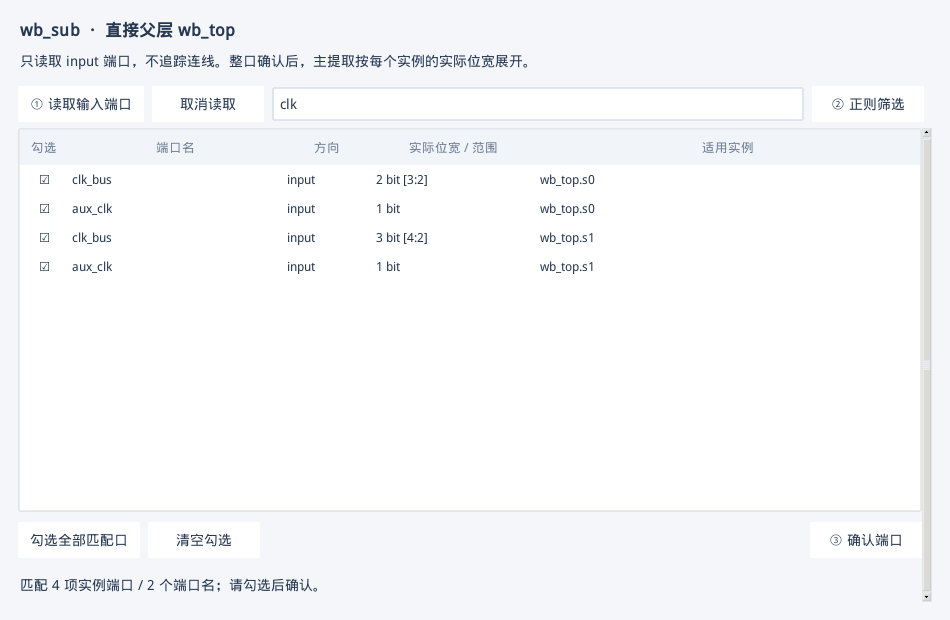
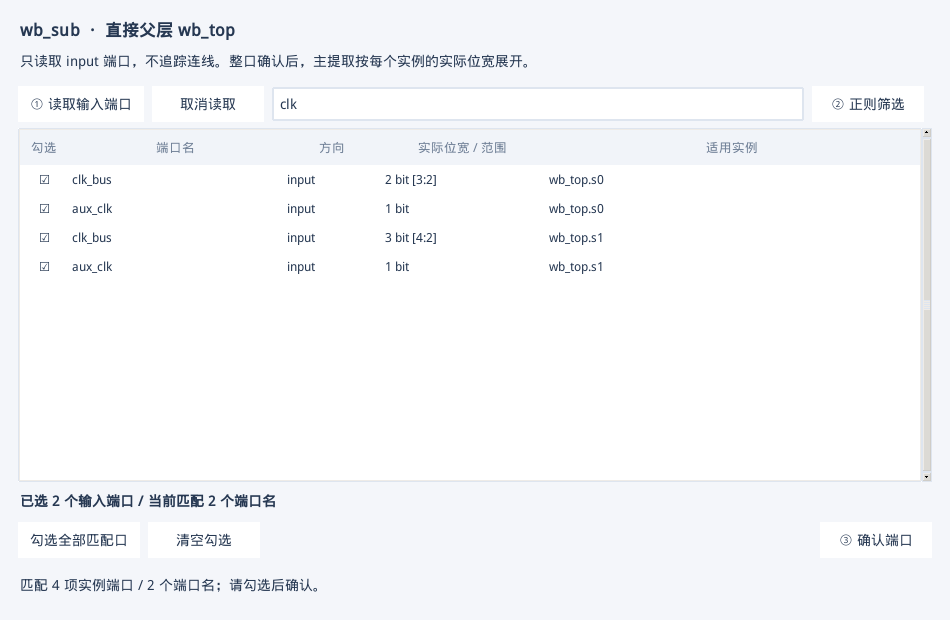
Show live subsystem input selection count
Keep selected and matching input-name counts visible while checking, filtering, and re-reading elab. Count only names submitted by confirmation and reserve footer space at minimum window size.

Validated 34 native Tk states across clock/reset with real Verdi 2018 discovery on the VM; 34 related automated tests passed. Updated manual, screenshot, and acceptance summary.

diff --git a/docs/GUI_USER_MANUAL.zh-CN.html b/docs/GUI_USER_MANUAL.zh-CN.html
@@ -1720,12 +1720,13 @@ bash clocktree.sh gui
 <li>添加器件，类型选择 <code>SUBSYSTEM</code>，填写 <strong>module 定义名</strong>，例如 <code>uart_subsystem</code>。</li>
 <li>点击“读取 elab 输入端口 → 正则筛选 → 勾选确认”，打开前处理窗口。</li>
 <li>点击“① 读取输入端口”。工具启动独立 Verdi 进程，导入设计，在指定父层匹配实例，只读取 formal input 的名称、方向、实际位宽及适用实例。此阶段没有 driver/load 追踪。</li>
-<li>输入正则，点击“② 正则筛选”。在表格第一列勾选需要的端口，可用“勾选全部匹配口”或“清空勾选”。</li>
+<li>输入正则，点击“② 正则筛选”。在表格第一列勾选需要的端口，可用“勾选全部匹配口”或“清空勾选”。表格下方实时显示“已选 N 个输入端口 / 当前匹配 M 个端口名”；单项勾选、取消勾选、全选、清空和重新筛选都会立即更新。</li>
 <li>点击“③ 确认端口”返回编辑窗口；关注输入框显示已确认名单，输出框禁用。</li>
 <li>点击“保存规则”。完成其他器件后，再点击左下角“开始提取全部时钟树”或复位树按钮。</li>
 </ol>
 <p><a class="figure" href="images/subsystem-input-preview.png" target="_blank"><img alt="真实 Verdi 2018 的参数化输入端口预览" src="images/subsystem-input-preview.png" /></a></p>
 <p>同一 module 有多个实例时，表格逐实例显示。例如 <code>s0.clk_bus</code> 是 <code>[3:2]</code>、<code>s1.clk_bus</code> 是 <code>[4:2]</code>，会显示两行。勾选按端口名作用于匹配的全部实例；主提取再逐实例核对是否存在及其位宽。当前配置不支持同一规则下按实例分别勾选不同的端口名单；这种需求应拆成不同父层规则。</p>
+<p>选中数量与“确认端口”实际提交的名单一致：相同端口名跨实例只计一次，整条总线计一个端口，筛选范围外的历史勾选不计入当前数量。修改正则但尚未重新筛选时，计数会标记“上次匹配”和“待重新筛选”；再次读取 elab 时先清零，读取完成后按新结果更新。计数和确认按钮固定在表格下方，缩小窗口时仍可见。</p>
 <p>“取消读取”终止本次独立读取进程，保留已保存规则；关闭前处理窗口也会停止尚未结束的读取。读取失败的具体原因显示在窗口底部，日志位于运行目录下 <code>.input-discovery/&lt;任务编号&gt;/preprocess.log</code>。前处理没有人为设置的总时限。</p>
 <h3 id="306">30.6 正则、确认状态与总线</h3>
 <p>正则使用 Python <code>re.search</code>，默认区分大小写，对 <strong>elab formal 端口名</strong>匹配，不搜索 RTL 源码中的信号声明。</p>

diff --git a/clocktree/input_view.py b/clocktree/input_view.py
@@ -29,20 +29,26 @@ class InputPortDialog(tk.Toplevel):
         self.expression=tk.StringVar(value=expression or '.*')
         ttk.Entry(actions,textvariable=self.expression,width=28).pack(side='left',fill='x',expand=True)
         ttk.Button(actions,text='② 正则筛选',command=self.filter).pack(side='left',padx=8)
-        self.table=ttk.Treeview(frame,columns=('name','direction','range','instance'),show='tree headings',selectmode='extended')
+        # Reserve the counter and confirmation controls before giving the
+        # remaining height to the scrollable table, including at minimum size.
+        footer=ttk.Frame(frame);footer.pack(side='bottom',fill='x')
+        table_frame=ttk.Frame(frame);table_frame.pack(fill='both',expand=True)
+        self.table=ttk.Treeview(table_frame,columns=('name','direction','range','instance'),show='tree headings',selectmode='extended')
         self.table.heading('#0',text='勾选');self.table.column('#0',width=48,stretch=False)
         for key,label,width in [('name','端口名',190),('direction','方向',65),('range','实际位宽 / 范围',140),('instance','适用实例',360)]:
             self.table.heading(key,text=label);self.table.column(key,width=width,minwidth=50)
-        scroll=ttk.Scrollbar(frame,orient='vertical',command=self.table.yview)
+        scroll=ttk.Scrollbar(table_frame,orient='vertical',command=self.table.yview)
         self.table.configure(yscrollcommand=scroll.set)
         scroll.pack(side='right',fill='y');self.table.pack(fill='both',expand=True)
         self.table.bind('<ButtonRelease-1>',self.click)
-        row=ttk.Frame(frame);row.pack(fill='x',pady=10)
+        self.selection_summary=tk.StringVar(value='已选 0 个输入端口 / 当前匹配 0 个端口名')
+        ttk.Label(footer,textvariable=self.selection_summary,font=(parent.app.family,10,'bold')).pack(anchor='w',pady=(8,0))
+        row=ttk.Frame(footer);row.pack(fill='x',pady=10)
         ttk.Button(row,text='勾选全部匹配口',command=lambda:self.toggle_all(True)).pack(side='left')
         ttk.Button(row,text='清空勾选',command=lambda:self.toggle_all(False)).pack(side='left',padx=8)
         self.confirm_button=ttk.Button(row,text='③ 确认端口',command=self.confirm,state='disabled');self.confirm_button.pack(side='right')
         self.status=tk.StringVar(value='点击“读取输入端口”，等待读取完成后再筛选、勾选和确认。')
-        ttk.Label(frame,textvariable=self.status,wraplength=870).pack(fill='x',pady=6)
+        ttk.Label(footer,textvariable=self.status,wraplength=700).pack(fill='x',pady=6)
         self.expression.trace('w',self.invalidate)
         self.protocol('WM_DELETE_WINDOW',self.close);self.grab_set()
         self.bind('<Destroy>',self.destroyed,add='+')
@@ -74,10 +80,13 @@ class InputPortDialog(tk.Toplevel):
     def invalidate(self,*args):
         self.confirm_button.configure(state='disabled')
         self.status.set('正则已修改，请重新筛选并确认。')
+        self.update_selection_summary()
 
     def start(self):
         if self.process and self.process.poll() is None:return
-        self.rows=[];self.table.delete(*self.table.get_children());self.confirm_button.configure(state='disabled')
+        self.rows=[];self.shown=[];self.filtered_expression=None
+        self.table.delete(*self.table.get_children());self.confirm_button.configure(state='disabled')
+        self.update_selection_summary()
         directory=self.parent.app.runs/'.input-discovery'/uuid.uuid4().hex
         directory.mkdir(parents=True)
         self.directory=directory
@@ -111,7 +120,8 @@ class InputPortDialog(tk.Toplevel):
     def filter(self):
         try:self.shown=filter_ports(self.rows,self.expression.get())
         except Exception as error:
-            self.confirm_button.configure(state='disabled');self.status.set('正则无效：'+str(error));return
+            self.confirm_button.configure(state='disabled');self.status.set('正则无效：'+str(error))
+            self.update_selection_summary();return
         self.table.delete(*self.table.get_children())
         for i,row in enumerate(self.shown):
             extent='{} bit{}'.format(row['width'],' [{}:{}]'.format(row['left'],row['right']) if row.get('left')!='' else '')
@@ -119,6 +129,7 @@ class InputPortDialog(tk.Toplevel):
                               values=(row['name'],'input',extent,row['instance']))
         self.filtered_expression=self.expression.get()
         self.confirm_button.configure(state='normal' if self.shown else 'disabled')
+        self.update_selection_summary()
         self.status.set('匹配 {} 项实例端口 / {} 个端口名；请勾选后确认。'.format(len(self.shown),len(set(row['name'] for row in self.shown))))
 
     def click(self,event):
@@ -131,6 +142,16 @@ class InputPortDialog(tk.Toplevel):
 
     def refresh_checks(self):
         for key in self.table.get_children():self.table.item(key,text='☑' if self.shown[int(key)]['name'] in self.selected else '☐')
+        self.update_selection_summary()
+
+    def update_selection_summary(self):
+        # Confirmation uses distinct matching formal names, not instance rows
+        # or individual bus bits. Hidden selections are not submitted.
+        names={row['name'] for row in self.shown}
+        pending=bool(self.shown) and self.expression.get()!=getattr(self,'filtered_expression',None)
+        self.selection_summary.set('已选 {} 个输入端口 / {}匹配 {} 个端口名{}'.format(
+            len(names & self.selected),'上次' if pending else '当前',len(names),
+            '（待重新筛选）' if pending else ''))
 
     def toggle_all(self,value):
         names={r['name'] for r in self.shown}

diff --git a/docs/GUI_USER_MANUAL.zh-CN.md b/docs/GUI_USER_MANUAL.zh-CN.md
@@ -1418,13 +1418,15 @@ bash clocktree.sh gui
 3. 添加器件，类型选择 `SUBSYSTEM`，填写 **module 定义名**，例如 `uart_subsystem`。
 4. 点击“读取 elab 输入端口 → 正则筛选 → 勾选确认”，打开前处理窗口。
 5. 点击“① 读取输入端口”。工具启动独立 Verdi 进程，导入设计，在指定父层匹配实例，只读取 formal input 的名称、方向、实际位宽及适用实例。此阶段没有 driver/load 追踪。
-6. 输入正则，点击“② 正则筛选”。在表格第一列勾选需要的端口，可用“勾选全部匹配口”或“清空勾选”。
+6. 输入正则，点击“② 正则筛选”。在表格第一列勾选需要的端口，可用“勾选全部匹配口”或“清空勾选”。表格下方实时显示“已选 N 个输入端口 / 当前匹配 M 个端口名”；单项勾选、取消勾选、全选、清空和重新筛选都会立即更新。
 7. 点击“③ 确认端口”返回编辑窗口；关注输入框显示已确认名单，输出框禁用。
 8. 点击“保存规则”。完成其他器件后，再点击左下角“开始提取全部时钟树”或复位树按钮。
 
 ![真实 Verdi 2018 的参数化输入端口预览](images/subsystem-input-preview.png)
 
 同一 module 有多个实例时，表格逐实例显示。例如 `s0.clk_bus` 是 `[3:2]`、`s1.clk_bus` 是 `[4:2]`，会显示两行。勾选按端口名作用于匹配的全部实例；主提取再逐实例核对是否存在及其位宽。当前配置不支持同一规则下按实例分别勾选不同的端口名单；这种需求应拆成不同父层规则。
+
+选中数量与“确认端口”实际提交的名单一致：相同端口名跨实例只计一次，整条总线计一个端口，筛选范围外的历史勾选不计入当前数量。修改正则但尚未重新筛选时，计数会标记“上次匹配”和“待重新筛选”；再次读取 elab 时先清零，读取完成后按新结果更新。计数和确认按钮固定在表格下方，缩小窗口时仍可见。
 
 “取消读取”终止本次独立读取进程，保留已保存规则；关闭前处理窗口也会停止尚未结束的读取。读取失败的具体原因显示在窗口底部，日志位于运行目录下 `.input-discovery/<任务编号>/preprocess.log`。前处理没有人为设置的总时限。
 

diff --git a/docs/VALIDATION.zh-CN.md b/docs/VALIDATION.zh-CN.md
@@ -2,6 +2,12 @@
 
 更新日期：2026-11-10。数据来自本地实际保存的 Verdi NPI 结果和 Tk 界面验收；以下为可随源码分享的摘要。完整原始记录保留在本机 `validation/`，不随仓库上传。
 
+## 子系统输入端口实时选中数量
+
+子系统正则筛选窗口新增固定在表格下方的“已选 N 个输入端口 / 当前匹配 M 个端口名”。计数对应确认时提交的不同端口名，同名跨实例及整条总线均只计一次，筛选外的历史勾选不计入当前数量。修改正则后标记待重新筛选，重新读取时清零；最小 760×460 窗口也保留计数和确认按钮。
+
+VM 的 Python 3.6.8 / Tk 8.5.13 / Verdi 2018 实际重新读取两例化子系统，时钟、复位各完成 17 个状态检查，共 34 个检查通过、0 callback 错误；覆盖单项勾选与取消、全选、清空、缩窄/扩大匹配、零匹配、非法正则、取消与重新读取，并核对最终确认名单。950×620 和 760×460 的实际界面截图已检查。相关已有自动测试 `test_workbench.py`、`test_flexible_config.py`、`test_reset.py` 共 **34 passed**。记录保存在 `validation/input-selection-count-20261110/`；本次仅调整端口编辑界面，未重复运行全套提取、规模压力或 SoC 回归。
+
 ## 辅助寄存器与分支 SV 模板
 
 最新增加每层复位信号与 `$var_rst`，覆盖起始层绑定、路径补全、缺失反馈、配置/工作区/历史恢复及真实 VCS 编译，见 [层次复位验收](SV_RESET_VALIDATION.zh-CN.md)。下文各版本计数保留当时的实测结果。
